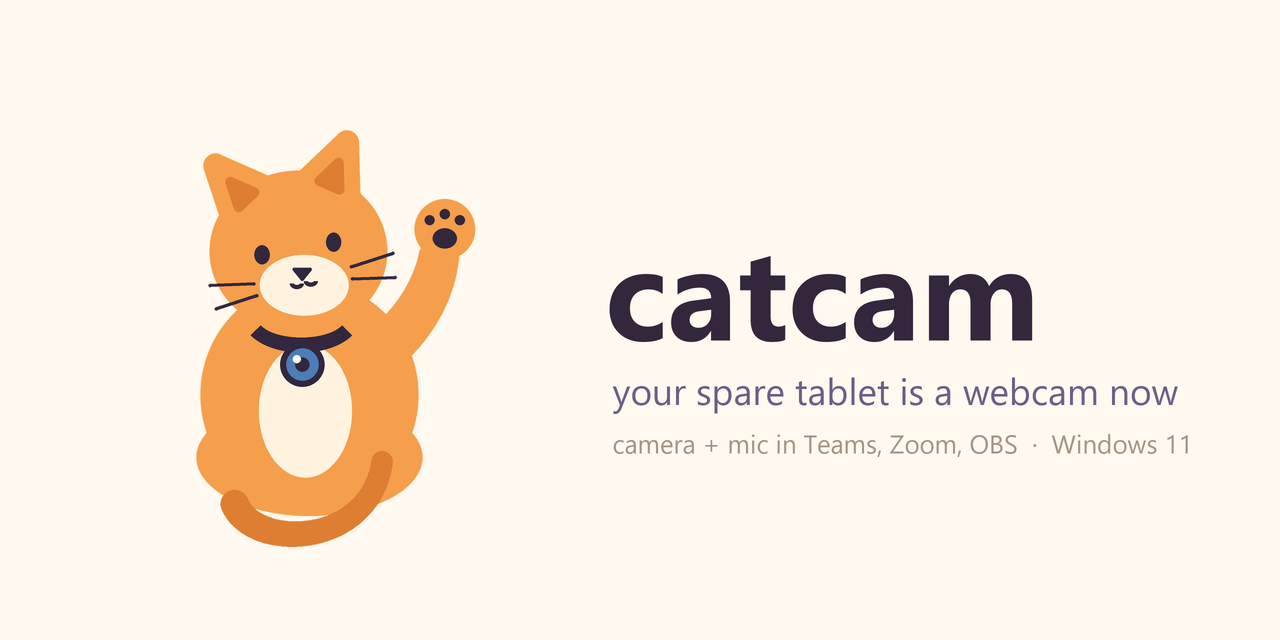
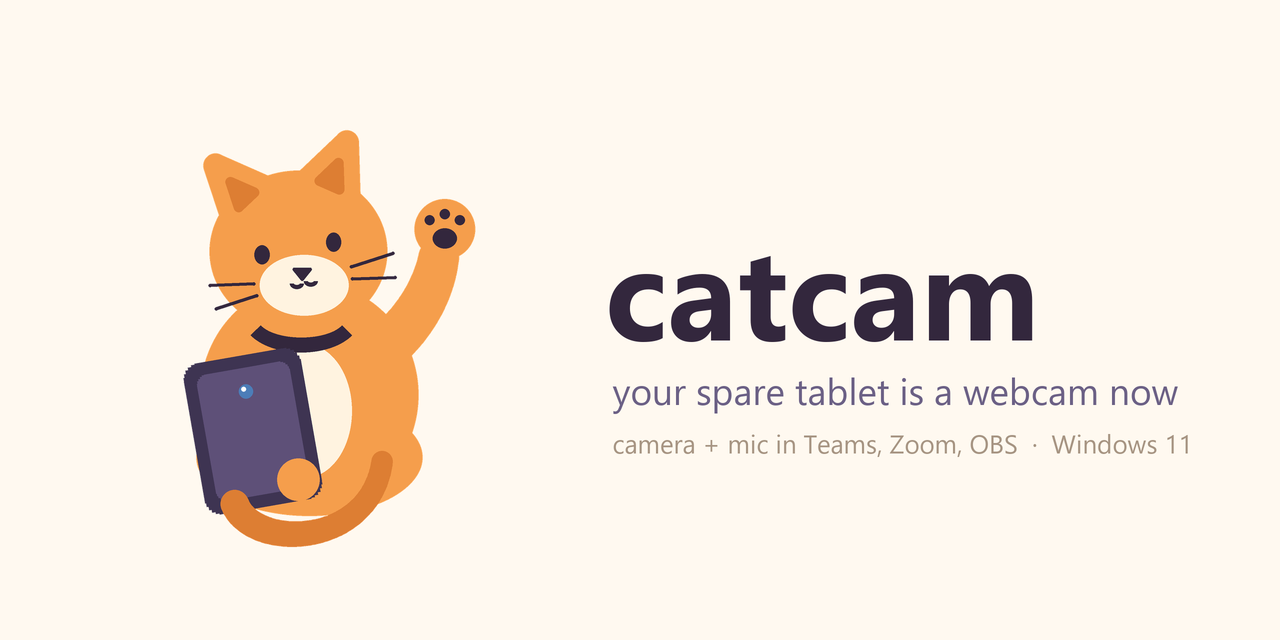
Mascot v4: the other paw hugs a tablet with its punch-hole camera dot
The mark now carries the whole product story: wave hello, hold the
tablet, camera visible. The tablet's camera dot takes over as the single
blue accent (collar tag retired, band stays); slab and screen tones
lifted so the tablet separates on dark backgrounds. Banners regenerated.

Changed region(s): [[0.125, 0.5312, 0.25, 0.8125]]

diff --git a/assets/mascot.py b/assets/mascot.py
@@ -192,10 +192,24 @@ for a, b in [((198, 198), (155, 192)), ((199, 210), (157, 216)),
 
 # collar band + camera-lens tag (the one cool accent, narrative: CatCam)
 arcw(250, 240, 58, 34, 30, 150, INK, 14)
-circle(251, 286, 22, INK)
-circle(251, 286, 16, BLUE)
-circle(251, 286, 7, INK)
-circle(245.5, 280.5, 4, (255, 255, 255, 255))
+
+# tablet hugged against the chest by the resting paw: the product itself.
+# Rounded slab, inset screen, punch-hole camera dot (the one blue accent).
+def rrect(cx, cy, w, h, deg, rad, col):
+    base = [(-w / 2, -h / 2), (w / 2, -h / 2), (w / 2, h / 2), (-w / 2, h / 2)]
+    pts = [rotp((cx + x, cy + y), (cx, cy), deg) for x, y in base]
+    polyg(pts, col, grow=rad)
+
+TCX, TCY, TW, TH, TDEG = 202, 352, 88, 122, -10
+SCREEN = (94, 80, 120, 255)
+rrect(TCX, TCY, TW, TH, TDEG, 14, (62, 52, 82, 255))
+rrect(TCX, TCY, TW - 14, TH - 14, TDEG, 9, SCREEN)
+cam = rotp((TCX, TCY - TH / 2 + 21), (TCX, TCY), TDEG)
+circle(cam[0], cam[1], 7, BLUE)
+circle(cam[0] - 2.2, cam[1] - 2.2, 2.4, (255, 255, 255, 255))
+# holding paw over the tablet's lower corner
+hp = rotp((TCX + TW / 2 - 8, TCY + TH / 2 - 6), (TCX, TCY), TDEG)
+circle(hp[0], hp[1], 21, FUR)
 
 # raised arm: IN FRONT of the torso, springing from the shoulder
 arm_group(FUR, 0)
@@ -209,7 +223,7 @@ tail_group(DEEP, 0)              # tail as the deeper tone = layered depth
 # ----- output -----
 img.save(r"./neko_2026_2048.png".replace("/", chr(92)))
 final = img.resize((CANVAS, CANVAS), Image.LANCZOS)
-out = r".\neko_2026.png"
+out = r"C:\Users\b4rru\AppData\Local\Temp\claude\C--Users-b4rru\fd896fc1-c85f-474b-9813-60469bb4f598\scratchpad\neko_2026.png"
 final.save(out)
 
 # debug sheet: render + silhouette + 16px readback
